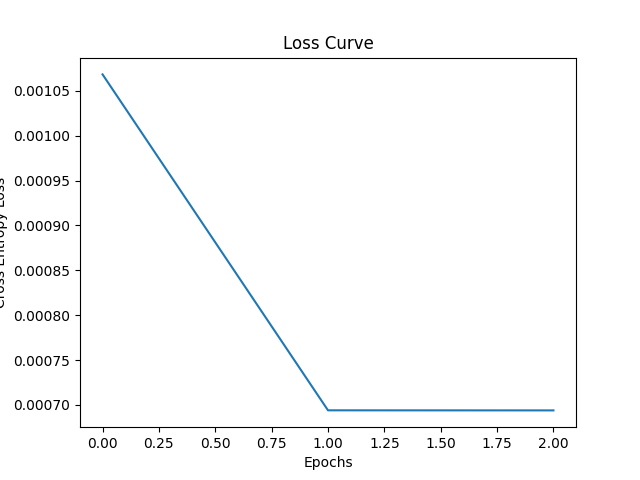
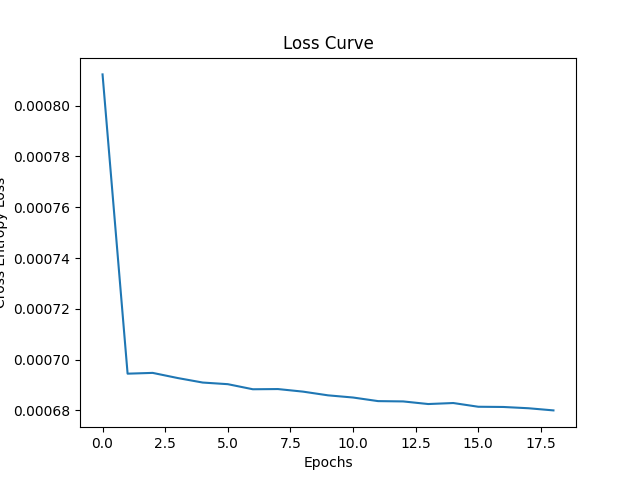
reweight PFN

diff --git a/model/reweight_PFN.py b/model/reweight_PFN.py
@@ -1,0 +1,46 @@
+import json
+import numpy as np
+import pandas as pd
+import matplotlib.pyplot as plt
+import PFN as ml
+from utils import *
+
+def main():
+
+    with open("../saved_models/PFNweights.json") as f:
+        weights = json.loads(f.read())
+
+    f_wei = weights["f_weights"]
+    f_bias = weights["f_bias"]
+    phi_wei = weights["Phi_weights"]
+    phi_bias = weights["Phi_bias"]
+
+    print("Start data processing...")
+    test_dataset_0 = np.load('../data/test1D_default.npz')
+    test_dataset_1 = np.load('../data/test_3D_known.npz')
+
+    indices = np.random.choice(test_dataset_0['jet'].shape[0], 10**5, replace=False)
+
+    X0_test = preprocess_data(test_dataset_0['jet'][indices])
+    X1_test = preprocess_data(test_dataset_1['jet'][indices])
+    print("Done!")
+    nn = ml.PFN(phi_wei=phi_wei, phi_bias=phi_bias, f_wei=f_wei, f_bias=f_bias)
+    preds = nn.predict(X1_test)
+    wei = preds[:, 0]/preds[:, 1]
+    print(wei)
+
+    plt.figure(figsize=(6,5))
+    bins = np.linspace(0,40,21)
+    plt.hist(test_dataset_0['multiplicity'][indices], bins = bins, alpha = 0.5, label="0")
+    plt.hist(test_dataset_1['multiplicity'][indices], bins = bins, weights=wei, histtype='step', color='k', label="1->0")
+    plt.hist(test_dataset_1['multiplicity'][indices], bins = bins, alpha = 0.5, label="1")
+    #plt.hist(test_dataset_0['number_of_kaons'][indices], bins = bins, alpha = 0.5, label="0")
+    #plt.hist(test_dataset_1['number_of_kaons'][indices], bins = bins, weights=wei, histtype='step', color='k', label="1->0")
+    #plt.hist(test_dataset_1['number_of_kaons'][indices], bins = bins, alpha = 0.5, label="1")
+    plt.legend()
+    plt.savefig("../output/weighted_dist_PFN.png")
+    plt.show()
+
+
+if __name__ == "__main__":
+    main()

diff --git a/model/PFN.py b/model/PFN.py
@@ -176,7 +176,7 @@ class PFN:
         else:
             return np.asnumpy(out.get())
 
-    def train(self, x, y, epoch = 10, batch_size = 1000):
+    def train(self, x, y, epoch = 10, batch_size = 1000, x_max = None):
         acc = []
         loss = []
         x = np.array(x)
@@ -188,6 +188,13 @@ class PFN:
         for i in range(epoch):
             l = []
             preds = []
+            if x_max is not None:
+                
+                indices = np.random.choice(x.shape[0], x_max, replace=False)
+                x = x[indices]
+                y = y[indices]
+
+
             for j in tqdm(range(0, len(x), batch_size)):
                 end = j + batch_size
                 data_batch = x[j:end]

diff --git a/model/train_PFN.py b/model/train_PFN.py
@@ -26,9 +26,6 @@ def main(argv, argc):
     data = np.load("../data/3D_train.npz", mmap_mode='r')
     X = data['X']
     Y = data['Y']
-    indices = np.random.choice(X.shape[0], 10**5, replace=False)
-    X = X[indices]
-    Y = Y[indices]
 
     X = preprocess_data(X)
     print("Data Loaded")
@@ -45,7 +42,7 @@ def main(argv, argc):
     print(Y_val.shape)
 
     nn = ml.PFN()
-    acc, loss, f_wei, f_bias, phi_wei, phi_bias = nn.train(X_train, Y_train, epoch=epochs, batch_size=1000)
+    acc, loss, f_wei, f_bias, phi_wei, phi_bias = nn.train(X_train, Y_train, epoch=epochs, batch_size=1000, x_max=10**5)
 
     epochs = np.arange(len(loss))
     if cupy:
